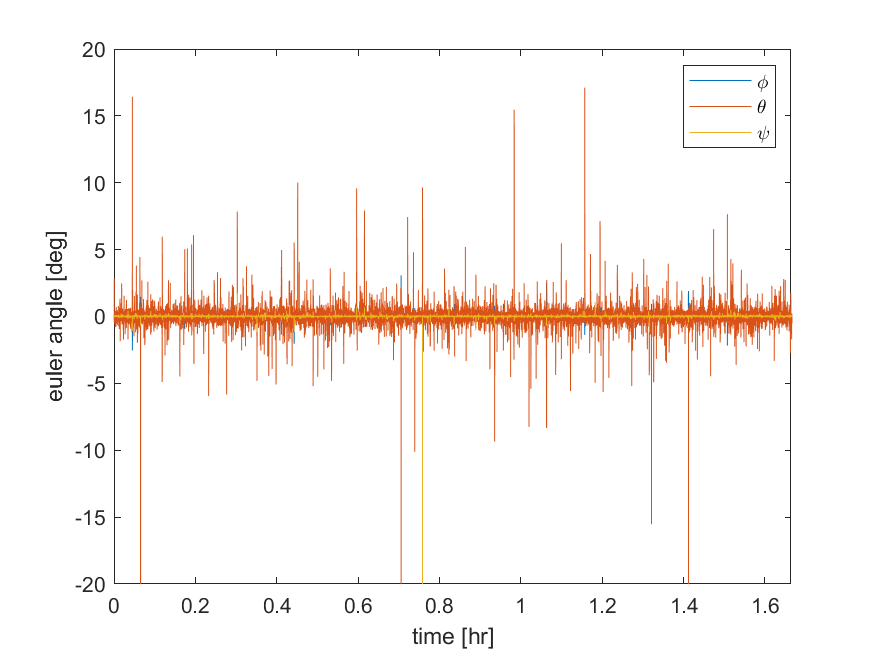
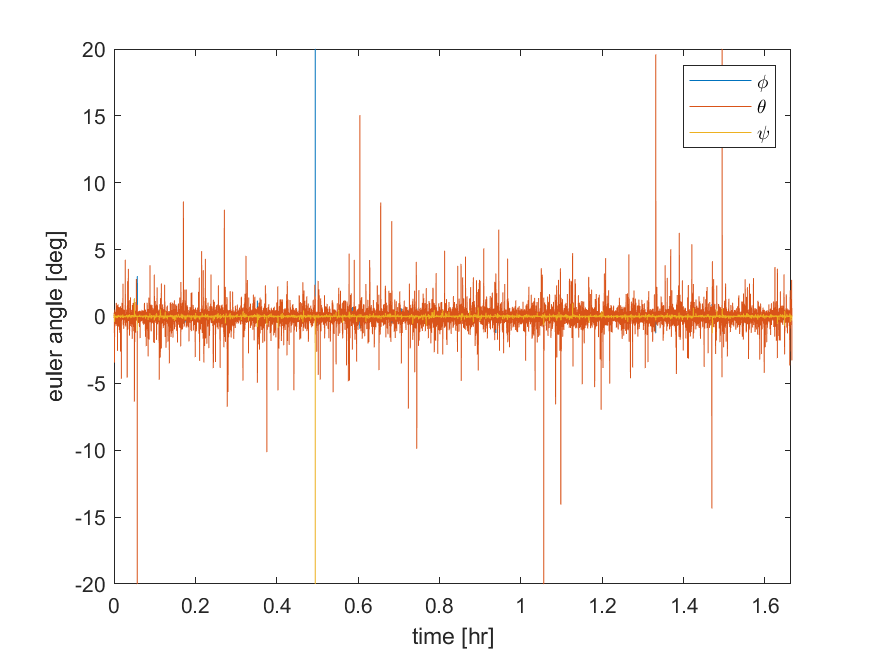
last commit of the pset fr this time

Changed region(s): [[0.1234, 0.2744, 0.9257, 0.8841]]

diff --git a/src/ps7.m b/src/ps7.m
@@ -26,6 +26,7 @@ hold on
 plot(timeValsMeas, rad2deg(eulerValsMeas), 'b')
 plot(timeVals, rad2deg(eulerVals), 'r--')
 hold off
+
 %%
 eulerError = zeros(size(eulerVals));
 A_error = zeros(3,3,length(timeVals));
@@ -44,9 +45,9 @@ xlabel("time [hr]")
 ylabel("euler angle [deg]")
 legend("\phi", "\theta", "\psi")
 ylim([-20, 20])
-saveas(1, "Images/ps7_problem2_qMethod.png")
+% saveas(1, "Images/ps7_problem2_qMethod.png")
 % saveas(1, "Images/ps7_problem2_DAD.png")
-% saveas(1, "Images/ps7_problem2_DADFict.png")
+saveas(1, "Images/ps7_problem2_DADFict.png")
 % saveas(1, "Images/ps7_problem2_kin.png")
 
 %% Problem 3
@@ -69,6 +70,20 @@ ylabel("||A_{error} - A_{small angle}||_F")
 xlim([0 timeVals(end)/3600])
 
 % saveas(2, "Images/ps7_problem3.png")
+
+%% Problem 4
+
+figure(3)
+hold on
+plot(timeValsMeas, rad2deg(eulerValsMeas), 'b')
+plot(timeVals, rad2deg(eulerVals), 'r--')
+legend(["ground truth", "", "", "error"])
+hold off
+
+% saveas(3, "Images/ps7_problem4_qMethod.png")
+% saveas(3, "Images/ps7_problem4_DAD.png")
+saveas(3, "Images/ps7_problem4_DADFict.png")
+% saveas(3, "Images/ps7_problem4_kin.png")
 
 %% Problem 5-6
 tFinal = 18000;

diff --git a/src/modelVars.m b/src/modelVars.m
@@ -113,11 +113,11 @@ sensors_bus = evalin('base', sensors_bus_info.busName);
 % sensors.sun_error = 0; sensors.tracker_error = 0;
 
 % Settings
-% measType = "dad";
-measType = "q";
+measType = "dad";
+% measType = "q";
 % measType = "kin";
-% useFict = true;
-useFict = false;
+useFict = true;
+% useFict = false;
 
 %% Plot
 qVals = squeeze(out.q.data);
